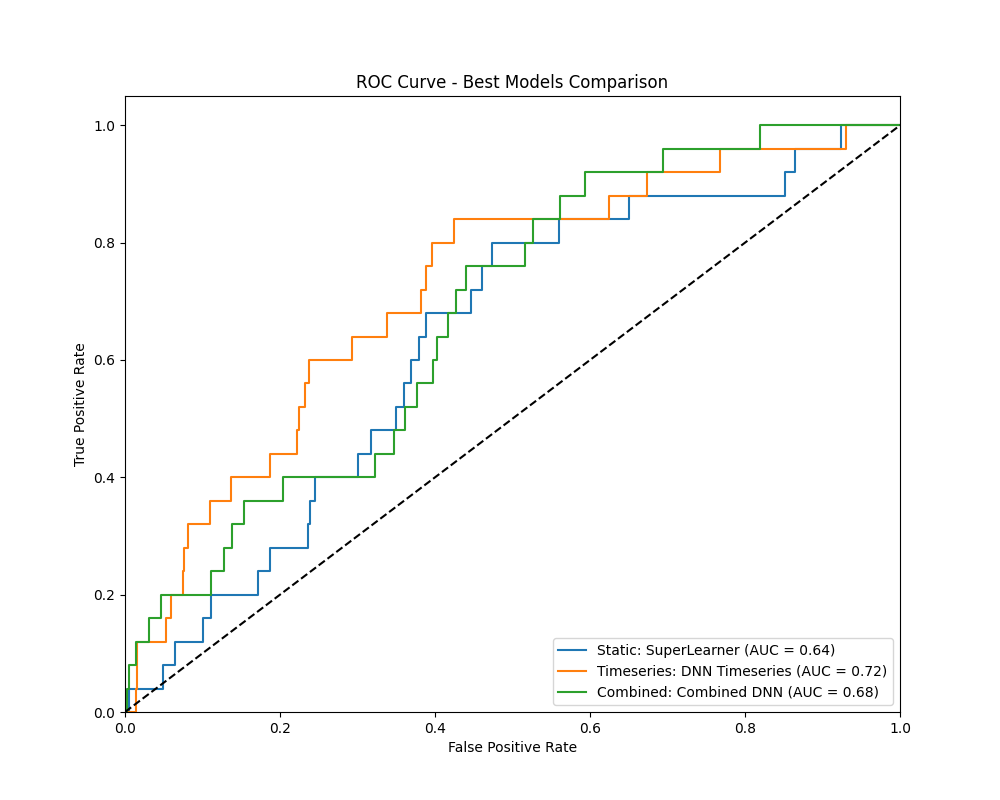
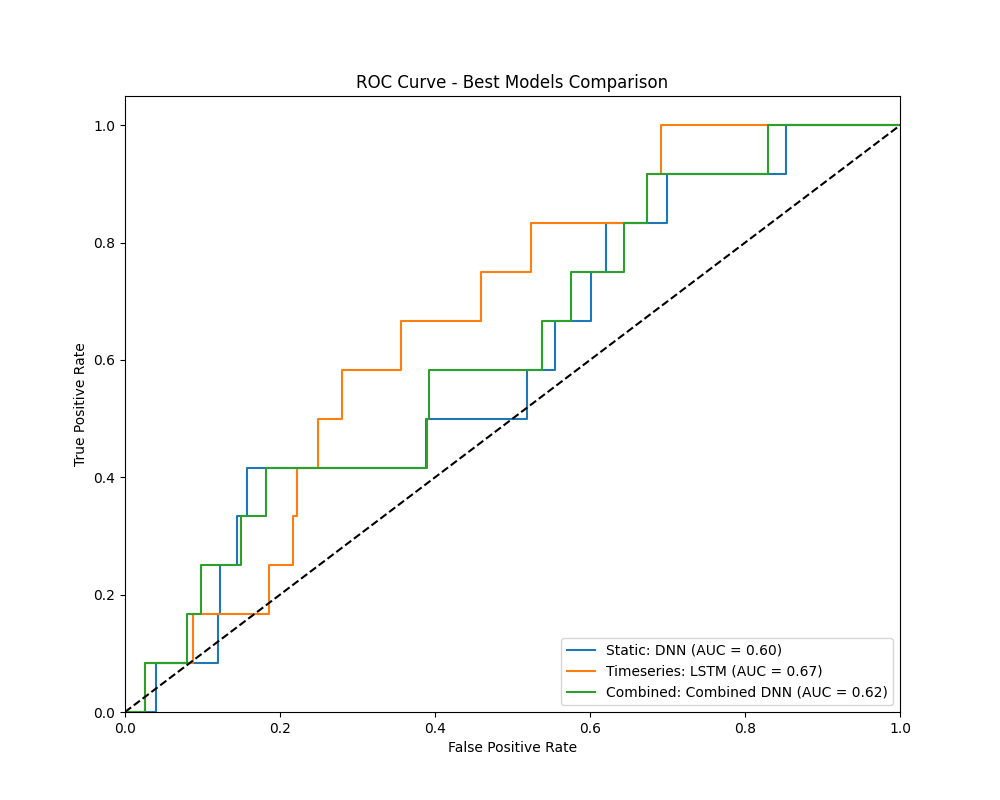
normalized categorical data for MORT

diff --git a/run_mort_models.py b/run_mort_models.py
@@ -1,5 +1,11 @@
 import os
+
 import numpy as np
+import pandas as pd
+import torch
+import torch.nn as nn
+import torch.nn.functional as F
+import torch.optim as optim
 from sklearn.discriminant_analysis import StandardScaler
 from sklearn.ensemble import GradientBoostingClassifier, RandomForestClassifier
 from sklearn.linear_model import LogisticRegression
@@ -11,10 +17,8 @@ from sklearn.metrics import (
 )
 from sklearn.pipeline import make_pipeline
 from sklearn.svm import SVC
-import torch
-import torch.nn as nn
-import torch.optim as optim
-from torch.utils.data import TensorDataset, DataLoader
+from torch.utils.data import DataLoader, TensorDataset
+
 from models.models import (
     CNNModel,
     CombinedCNNDnnModel,
@@ -29,34 +33,31 @@ from models.models import (
     load_and_preprocess_data,
     set_random_seeds,
 )
-import pandas as pd
-
 from plotting_functions import (
     plot_roc_curves,
+    # plot_pr_curves
 )
 
-import torch
-import torch.nn as nn
-import torch.nn.functional as F
 
 class FocalLoss(nn.Module):
-    def __init__(self, alpha=0.25, gamma=2, reduction='mean'):
+    def __init__(self, alpha=0.25, gamma=2, reduction="mean"):
         super(FocalLoss, self).__init__()
         self.alpha = alpha
         self.gamma = gamma
         self.reduction = reduction
 
     def forward(self, inputs, targets):
-        BCE_loss = F.binary_cross_entropy_with_logits(inputs, targets, reduction='none')
+        BCE_loss = F.binary_cross_entropy_with_logits(inputs, targets, reduction="none")
         pt = torch.exp(-BCE_loss)
-        F_loss = self.alpha * (1-pt)**self.gamma * BCE_loss
+        F_loss = self.alpha * (1 - pt) ** self.gamma * BCE_loss
 
-        if self.reduction == 'mean':
+        if self.reduction == "mean":
             return torch.mean(F_loss)
-        elif self.reduction == 'sum':
+        elif self.reduction == "sum":
             return torch.sum(F_loss)
         else:
             return F_loss
+
 
 def evaluate_model(model, test_loader, criterion):
     model.eval()
@@ -323,7 +324,8 @@ def create_model_and_loaders(
 
 def main():
     set_random_seeds()
-    days = [365, 180, 90, 30]
+    days = [30]
+    # days = [365, 180, 90, 30]
 
     for day in days:
         directory = f"data/ml_inputs/mortality_{day}"
@@ -601,7 +603,7 @@ def main():
             static_input_size=X_cat_train.shape[1],
             timeseries_input_size=X_bxb_train.shape[1] * X_bxb_train.shape[2],
             hidden_sizes=best_params["dnn_hidden_sizes"],
-            output_size=1
+            output_size=1,
         )
         combined_dnn_model.apply(init_weights)
 
@@ -689,7 +691,6 @@ def main():
         df7["model"] = "Combined DNN"
         df = pd.concat([df, df2, df3, df4, df5, df6, df7])
 
-
         df.to_csv(f"saved_models/mortality/{day}/train_log.csv", index=False)
         print("Model results saved to model_results.csv")
 
@@ -717,7 +718,8 @@ def main():
         )
 
         torch.save(
-            combined_dnn_model.state_dict(), f"saved_models/mortality/{day}/combined_dnn_model.pth"
+            combined_dnn_model.state_dict(),
+            f"saved_models/mortality/{day}/combined_dnn_model.pth",
         )
 
         print("Models saved")
@@ -778,20 +780,21 @@ def main():
             all_labels.append(labels)
             all_probs.append(probs)
 
-        # lets create a model that uses the pretrained CNN + Superlearner models to make predictions on the test set
 
         # Usage in main function:
         combined_model = CombinedSuperLearnerCNNModel(superlearner, cnn_model)
         combined_model.fit(X_cat_train, X_bxb_train, y_train)
-       
+
         all_probs.append(combined_model.predict_proba(X_cat_test, X_bxb_test))
         all_labels.append(y_test)
         model_names.append("Combined SuperLearner+CNN")
 
-
         plot_roc_curves(
             all_labels, all_probs, model_names, f"saved_models/mortality/{day}"
         )
+        # plot_pr_curves(
+        #     all_labels, all_probs, model_names, f"saved_models/mortality/{day}"
+        # )
 
 
 if __name__ == "__main__":

diff --git a/plotting_functions.py b/plotting_functions.py
@@ -34,6 +34,86 @@ def plot_roc_curve(all_labels, all_probs, model_names, dir_path):
 import matplotlib.pyplot as plt
 from sklearn.metrics import roc_curve, roc_auc_score
 
+
+
+# def plot_pr_curve(all_labels, all_probs, model_names, dir_path):
+#     plt.figure(figsize=(10, 8))
+#     for i, model_name in enumerate(model_names):
+#         precision, recall, _ = precision_recall_curve(all_labels[i], all_probs[i])
+#         pr_auc = average_precision_score(all_labels[i], all_probs[i])
+#         plt.plot(recall, precision, label=f'{model_name} (AUC = {pr_auc:.2f})')
+    
+#     plt.xlim([0.0, 1.0])
+#     plt.ylim([0.0, 1.05])
+#     plt.xlabel('Recall')
+#     plt.ylabel('Precision')
+#     plt.title('Precision-Recall Curve')
+#     plt.legend(loc="lower right")
+#     plt.savefig(f'{dir_path}/pr_curve_comparison.png')
+#     plt.close()
+#     return 'pr_curve_comparison.png'
+
+# def plot_pr_curves(all_labels, all_probs, model_names, dir_path):
+#     # Categorize models
+#     static_models = ['DNN', 'SuperLearner']
+#     timeseries_models = ['LSTM', 'CNN', 'SuperTimeLearner', 'DNN Timeseries']
+#     combined_models = ['Combined LSTM+DNN', 'Combined CNN+DNN', 'Combined SuperLearner+CNN', 'Combined DNN']
+
+#     categories = [
+#         ('Static', static_models),
+#         ('Timeseries', timeseries_models),
+#         ('Combined', combined_models)
+#     ]
+
+#     best_models = {}
+
+#     # Plot PR curve for each category
+#     for category, models in categories:
+#         plt.figure(figsize=(10, 8))
+#         best_auc = 0
+#         best_model = ''
+
+#         for model in models:
+#             if model in model_names:
+#                 i = model_names.index(model)
+#                 precision, recall, _ = precision_recall_curve(all_labels[i], all_probs[i])
+#                 pr_auc = average_precision_score(all_labels[i], all_probs[i])
+#                 plt.plot(recall, precision, label=f'{model} (AUC = {pr_auc:.2f})')
+
+#                 if pr_auc > best_auc:
+#                     best_auc = pr_auc
+#                     best_model = model
+
+#         best_models[category] = (best_model, best_auc)
+
+#         plt.xlim([0.0, 1.0])
+#         plt.ylim([0.0, 1.05])
+#         plt.xlabel('Recall')
+#         plt.ylabel('Precision')
+#         plt.title(f'Precision-Recall Curve - {category} Models')
+#         plt.legend(loc="lower right")
+#         plt.savefig(f'{dir_path}/pr_curve_{category.lower()}.png')
+#         plt.close()
+
+#     # Plot best models from each category
+#     plt.figure(figsize=(10, 8))
+#     for category, (model, auc) in best_models.items():
+#         i = model_names.index(model)
+#         precision, recall, _ = precision_recall_curve(all_labels[i], all_probs[i])
+#         plt.plot(recall, precision, label=f'{category}: {model} (AUC = {auc:.2f})')
+
+#     plt.xlim([0.0, 1.0])
+#     plt.ylim([0.0, 1.05])
+#     plt.xlabel('Recall')
+#     plt.ylabel('Precision')
+#     plt.title('Precision-Recall Curve - Best Models Comparison')
+#     plt.legend(loc="lower right")
+#     plt.savefig(f'{dir_path}/pr_curve_best_models.png')
+#     plt.close()
+
+#     return ['pr_curve_static.png', 'pr_curve_timeseries.png', 'pr_curve_combined.png', 'pr_curve_best_models.png']
+
+
 def plot_roc_curves(all_labels, all_probs, model_names, dir_path):
     # Categorize models
     static_models = ['DNN', 'SuperLearner']

diff --git a/data_preparation.py b/data_preparation.py
@@ -3,7 +3,7 @@ import os
 import numpy as np
 from sklearn.calibration import LabelEncoder
 from Classes.dl_dataset_manager import DLManager, MortalityRecord
-from sklearn.preprocessing import StandardScaler
+from sklearn.preprocessing import MinMaxScaler, StandardScaler
 from sklearn.model_selection import train_test_split
 
 logging.basicConfig(level=logging.INFO,
@@ -45,9 +45,12 @@ def prepare_data(records):
     
 
     X_cat_array = X_cat_array.astype(float)
+    normalizer_cat = MinMaxScaler()
 
     scaler = StandardScaler()
     X_cat_normalized = scaler.fit_transform(X_cat_array)
+    X_cat_normalized = normalizer_cat.fit_transform(X_cat_array)
+
 
     if len(X_bxb_array.shape) == 3:
         num_samples, num_timesteps, num_features = X_bxb_array.shape

diff --git a/main.py b/main.py
@@ -54,8 +54,8 @@ def main():
     # gather_york_data_traditional.main()
     # logger.info("Gathering York data for DL analysis.")
     # gather_york_data_dl.main()
-    generate_mortality_data(days=365)
-    generate_mortality_data(days=180)
-    generate_mortality_data(days=90)
+    # generate_mortality_data(days=365)
+    # generate_mortality_data(days=180)
+    # generate_mortality_data(days=90)
     generate_mortality_data(days=30)
 main()

diff --git a/shap_values.py b/shap_values.py
@@ -1,0 +1,11 @@
+"""
+SHAP values intprate the impact of having a certain value for a given feature in conmparison to the preidction wee would make if that feature took some baseline value.
+"""
+
+# Load up the mortality@30 data
+from data_preparation import load_and_prepare_data
+
+
+X_bxb, X_cat, y = load_and_prepare_data(30)
+
+print(X_bxb.shape)
